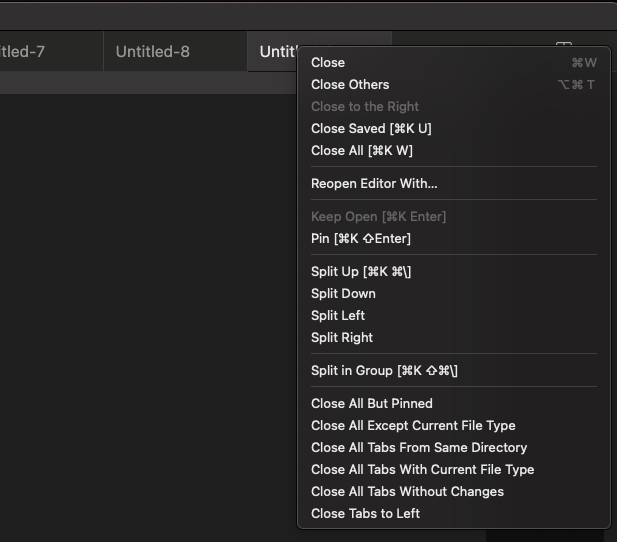
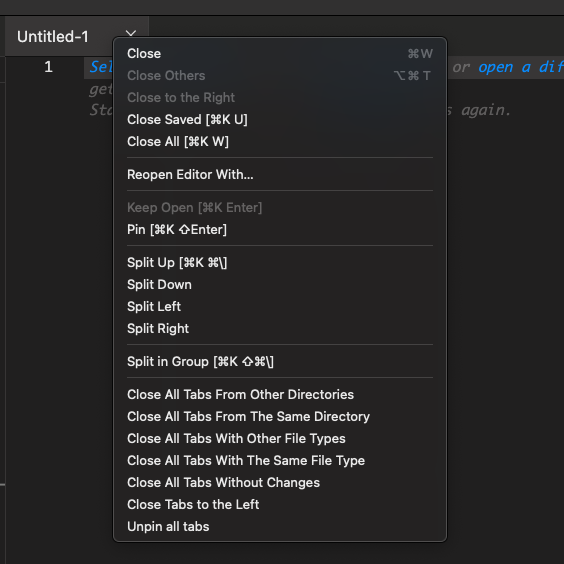
fix: marketplace page update

Changed region(s): [[0.0, 0.0, 1.0, 1.0], [0.4823, 0.3247, 0.6933, 0.3542]]

diff --git a/CHANGELOG.md b/CHANGELOG.md
@@ -21,6 +21,8 @@ Check [Keep a Changelog](http://keepachangelog.com/) for recommendations on how 
 
 ## [1.1.0] - 2023-08-11
 
+At publishing a minor increment is skipped. so this is registered as 1.2.0
+
 ### Added features
 
 - Unpinn all tabs
@@ -33,3 +35,10 @@ Check [Keep a Changelog](http://keepachangelog.com/) for recommendations on how 
 ### Removed
 
 - Close All But Pinned
+
+## [1.2.1] - 2023-08-11
+
+### Added features
+
+- Improved color scheme on the VSCode marketplace
+- Updated marketplace screenshots with latest features.
